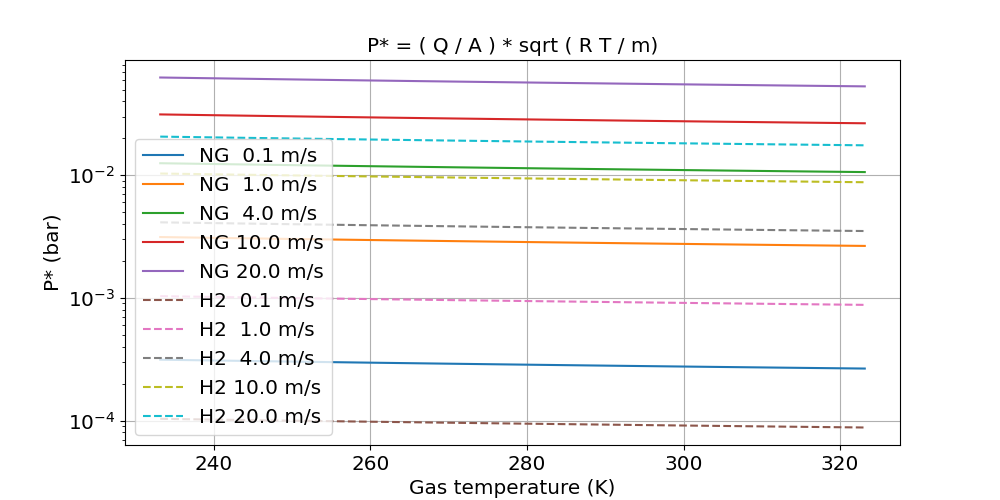
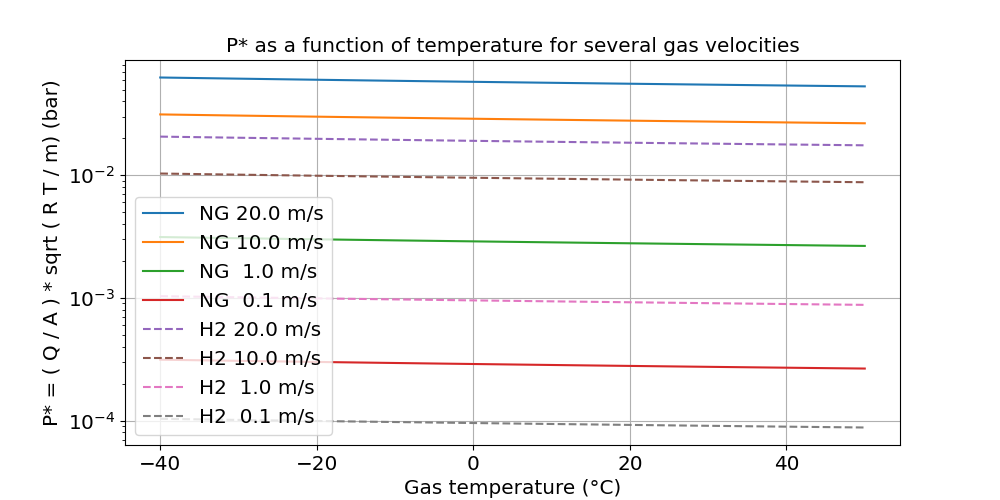
degrees C and re-ordered lines

diff --git a/moody.py b/moody.py
@@ -739,17 +739,17 @@ def plot_p_star():
     plt.figure(figsize=(10, 5))
     
     for g in ['NG', 'H2']:
-        for v in [0.1, 1, 4, 10, 20]:
+        for v in [20, 10, 1, 0.1]:
             label=f"{v:4.1f} m/s"
             txt = f"{g} {label}"
             pstar_v = [p_star_v(g, v, t) for t in temperatures]
             
             # print(f"P* {g:7} at  {v:4.1f} m/s")
-            plt.semilogy(temperatures, pstar_v,  label=txt, **plot_kwargs(g))
+            plt.semilogy(temperatures - T273, pstar_v,  label=txt, **plot_kwargs(g))
 
-    plt.title(f'P* = ( Q / A ) * sqrt ( R T / m)')
-    plt.xlabel('Gas temperature (K)')
-    plt.ylabel('P* (bar)')
+    plt.title(f'P* as a function of temperature for several gas velocities')
+    plt.xlabel('Gas temperature (°C)')
+    plt.ylabel('P* = ( Q / A ) * sqrt ( R T / m) (bar)')
     plt.legend()
     plt.grid(True)
 
